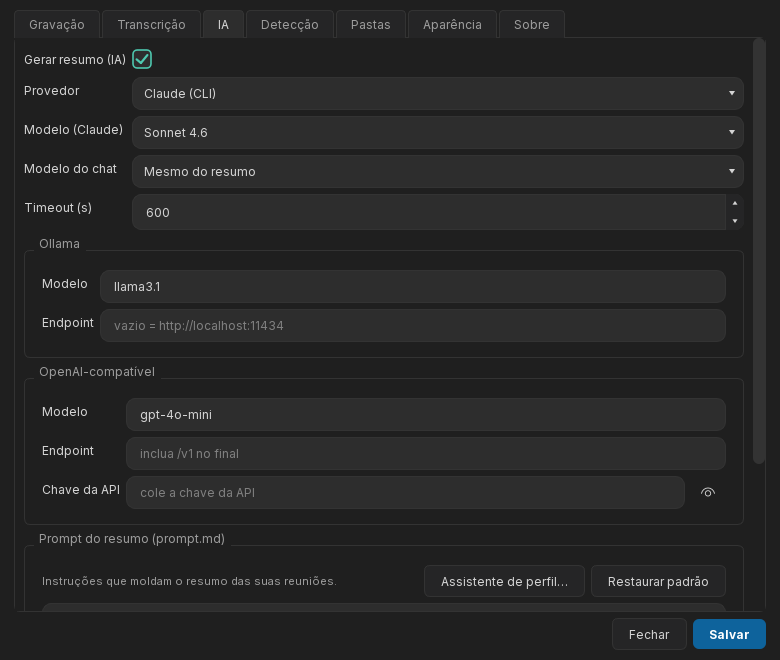
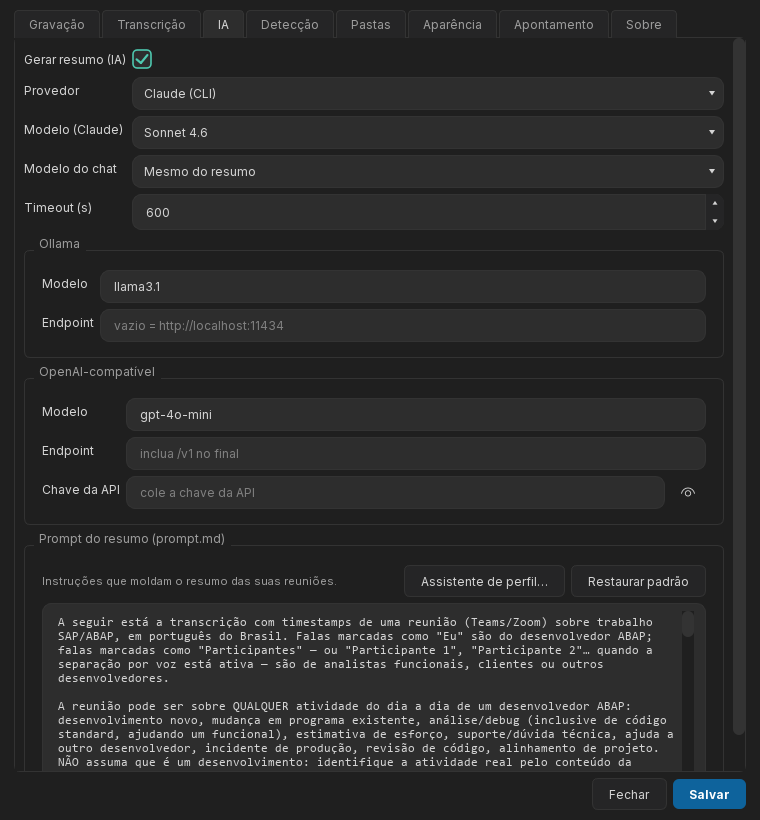
docs(readme): prints atualizados p/ a v1.4.3 + print e destaque do apontamento de horas (#160)
Os prints estavam defasados (capa/notas/configuracoes/tema/wizard eram de julho,
pre-v1.2): regenerados no sandbox isolado com dados FICTICIOS (Vetra/Aurora/
Nortis), Qt offscreen + win.grab() - nunca o app real. O que os prints novos
mostram: capa v1.4.3 com atalho Horas e secao Servicos aberta, Notas com nota
rica (tabela de objetos SAP + criterios de aceite), Configuracoes com a aba
Apontamento visivel, tema com o Tamanho da interface, wizard preenchido.

- NOVO docs/apontamentos.png: janela de Apontamentos (grade do mes agrupada por
  dia, sugestoes vindas das reunioes, coluna Extra, checkbox Lancado, totais)
  na secao "Apontamento de horas" dos dois READMEs
- texto: secao do apontamento menciona o atalho Horas na capa; aba Sobre agora
  descreve o Baixar componentes (instalacao congelada) e o botao Reportar da
  janela de Log (issue pre-preenchida) - PT e EN

diff --git a/README.md b/README.md
@@ -150,7 +150,7 @@ A pílula só some quando a call termina. Com `auto_record` desligado (Configura
 
 O botão **Notas** abre a **janela de Notas** — o coração do app: à esquerda, as reuniões **agrupadas por dia** com **busca por conteúdo** (destaca as ocorrências) e **filtros colapsáveis** (data, cliente, participante); à direita, o leitor da ata em markdown, com **título e cliente identificados pela IA e editáveis** (quando o cliente não dá para inferir da conversa, o campo fica vazio para você digitar) e uma **barra de progresso ao vivo** para reuniões ainda transcrevendo/resumindo. Uma **barra de ações** oferece gerar o prompt de contexto, copiar, **perguntar à reunião** (um chat que busca na transcrição), rotular vozes e **excluir** (a lixeira, a tecla **Delete** na lista ou o clique-direito — com a opção de apagar também o áudio; sem ela, a gravação fica como backup). As tabelas (ex.: **Objetos SAP citados**) viram **tabelas de verdade** com **⧉ copiar (Excel)** ao lado — TSV colável direto em células; a **transcrição completa** fica atrás de um link no fim do documento (mostra/oculta sem "pular" a leitura). Ainda: **atalhos de teclado** e **menu de contexto** na lista de reuniões.
 
-O botão **⚙** abre as **Configurações**, com abas **Gravação / Transcrição / IA / Detecção / Pastas / Aparência / Sobre** — agrupadas por categoria, incluindo **atalho de teclado global** para gravar/parar (capture a combinação com o botão "Gravar atalho"). Na aba **IA**, um editor do `prompt.md`: o markdown com as instruções que geram a ata (seções, regras, vocabulário) — personalize à vontade e restaure o padrão quando quiser. Na aba **Aparência**, escolha o **tema**: *Automático* (segue o modo claro/escuro do sistema) ou um dos quatro — **VS Code**, **Sublime**, **Claude** e **Claro** — com troca na hora; e ajuste o **tamanho da interface** (100%–200%, com troca a quente — no macOS o padrão já compensa a diferença de densidade). A aba **Sobre** mostra a saúde dos componentes (GPU, diarização, ffmpeg) e as atualizações.
+O botão **⚙** abre as **Configurações**, com abas **Gravação / Transcrição / IA / Detecção / Pastas / Aparência / Sobre** — agrupadas por categoria, incluindo **atalho de teclado global** para gravar/parar (capture a combinação com o botão "Gravar atalho"). Na aba **IA**, um editor do `prompt.md`: o markdown com as instruções que geram a ata (seções, regras, vocabulário) — personalize à vontade e restaure o padrão quando quiser. Na aba **Aparência**, escolha o **tema**: *Automático* (segue o modo claro/escuro do sistema) ou um dos quatro — **VS Code**, **Sublime**, **Claude** e **Claro** — com troca na hora; e ajuste o **tamanho da interface** (100%–200%, com troca a quente — no macOS o padrão já compensa a diferença de densidade). A aba **Sobre** mostra a saúde dos componentes (GPU, diarização, ffmpeg) e as atualizações — e, na instalação pelo instalador, traz a seção **Baixar componentes** para completar depois o que ficou de fora no primeiro uso (modelo Whisper, bibliotecas NVIDIA, separação de vozes). E se algo der errado em qualquer ponto, a janela de **Log** tem o botão **Reportar**: salva o diagnóstico (.zip) e abre uma issue no GitHub já preenchida com os últimos erros.
 
 <p align="center">
   <img src="docs/configuracoes.png" alt="ScribaDev — Configurações, aba IA com o editor do prompt.md" width="640">
@@ -191,7 +191,11 @@ Menu da bandeja: **Gravar agora/Parar** (cobre reuniões presenciais ou apps for
 
 ### Apontamento de horas (opcional)
 
-Para quem precisa lançar horas num sistema da empresa: o módulo de **Apontamentos** transforma cada reunião processada numa **sugestão de apontamento** (cliente, horários arredondados, descrição) — você revisa, ajusta e confirma. Vem **desligado**; ative em **Configurações → Apontamento** (sem ativar, nada roda nem cria banco).
+Para quem precisa lançar horas num sistema da empresa: o módulo de **Apontamentos** transforma cada reunião processada numa **sugestão de apontamento** (cliente, horários arredondados, descrição) — você revisa, ajusta e confirma. Vem **desligado**; ative em **Configurações → Apontamento** (sem ativar, nada roda nem cria banco). Com o módulo ativo, o atalho **Horas** aparece na janela principal.
+
+<p align="center">
+  <img src="docs/apontamentos.png" alt="ScribaDev — janela de Apontamentos: grade do mês agrupada por dia, sugestões vindas das reuniões, coluna de hora extra e checkbox Lançado" width="780">
+</p>
 
 - **Sugestões pós-call**: a reunião termina e a sugestão aparece na fila para aceitar, **editar e aceitar** ou **agrupar** (várias calls fragmentadas viram um apontamento só);
 - **Lançamento manual pré-preenchido** pelo seu histórico (cliente → projeto → descrição), com **hora extra** em coluna própria e horário fracionado (manhã/tarde no mesmo diálogo);

diff --git a/README.en.md b/README.en.md
@@ -150,7 +150,7 @@ The pill only disappears when the call ends. With `auto_record` off (Settings), 
 
 The **Notas** button opens the **Notes window** - the heart of the app: on the left, meetings **grouped by day** with **content search** (highlights matches) and **collapsible filters** (date, client, participant); on the right, the markdown reader, with **AI-identified, editable title and client** (when the client can't be inferred from the conversation, the field is left blank for you to type) and a **live progress bar** for meetings still transcribing/summarizing. An **action bar** offers generating the context prompt, copying, **"ask the meeting"** (a chat that searches the transcript), labeling speakers and **deleting** (the trash button, the **Delete** key on the list or the right-click — with an option to also delete the audio; without it, the recording stays as backup). Tables (e.g. **SAP objects**) render as **real tables** with **⧉ copy (Excel)** next to them - TSV that pastes straight into cells; the **full transcript** sits behind a link at the end of the document (show/hide without "jumping" your reading). Also: **keyboard shortcuts** and a **context menu** on the meeting list.
 
-The **⚙** button opens **Settings**, with **Gravação / Transcrição / IA / Detecção / Pastas / Aparência / Sobre** tabs - grouped by category, including a **global record/stop hotkey** (capture the combo with the "Gravar atalho" button). In the **IA** tab, a `prompt.md` editor: the markdown instructions that drive the minutes (sections, rules, vocabulary) - customize freely, restore the default anytime. In the **Aparência** tab, pick a **theme**: *Automático* (follows the system's light/dark mode) or one of four - **VS Code**, **Sublime**, **Claude** and **Claro** - switched instantly; and adjust the **UI size** (100%–200%, hot-switched — on macOS the default already compensates the density difference). The **Sobre** tab shows component health (GPU, diarization, ffmpeg) and updates.
+The **⚙** button opens **Settings**, with **Gravação / Transcrição / IA / Detecção / Pastas / Aparência / Sobre** tabs - grouped by category, including a **global record/stop hotkey** (capture the combo with the "Gravar atalho" button). In the **IA** tab, a `prompt.md` editor: the markdown instructions that drive the minutes (sections, rules, vocabulary) - customize freely, restore the default anytime. In the **Aparência** tab, pick a **theme**: *Automático* (follows the system's light/dark mode) or one of four - **VS Code**, **Sublime**, **Claude** and **Claro** - switched instantly; and adjust the **UI size** (100%–200%, hot-switched — on macOS the default already compensates the density difference). The **Sobre** tab shows component health (GPU, diarization, ffmpeg) and updates — and, on installer-based installs, a **Download components** section to grab later whatever was skipped on first use (Whisper model, NVIDIA libraries, voice separation). And if anything goes wrong anywhere, the **Log** window has a **Report** button: it saves the diagnostics (.zip) and opens a GitHub issue pre-filled with the latest errors.
 
 <p align="center">
   <img src="docs/configuracoes.png" alt="ScribaDev — Settings, IA tab with the prompt.md editor" width="640">
@@ -191,7 +191,11 @@ Tray menu: **Record now/Stop** (covers in-person meetings and apps outside detec
 
 ### Timesheet (optional)
 
-For anyone who must log hours in a company system: the **Timesheet** module turns every processed meeting into a **suggested entry** (client, rounded times, description) — you review, tweak and confirm. It ships **disabled**; enable it in **Settings → Apontamento** (until then nothing runs and no database is created).
+For anyone who must log hours in a company system: the **Timesheet** module turns every processed meeting into a **suggested entry** (client, rounded times, description) — you review, tweak and confirm. It ships **disabled**; enable it in **Settings → Apontamento** (until then nothing runs and no database is created). With the module on, a **Horas** shortcut appears on the main window.
+
+<p align="center">
+  <img src="docs/apontamentos.png" alt="ScribaDev — Timesheet window: month grid grouped by day, suggestions from meetings, overtime column and Posted checkbox" width="780">
+</p>
 
 - **Post-call suggestions**: the meeting ends and the suggestion lands in a review queue — accept, **edit & accept** or **merge** (several fragmented calls become a single entry);
 - **Manual entries pre-filled** from your own history (client → project → description), with **overtime** in its own column and split times (morning/afternoon in one dialog);
